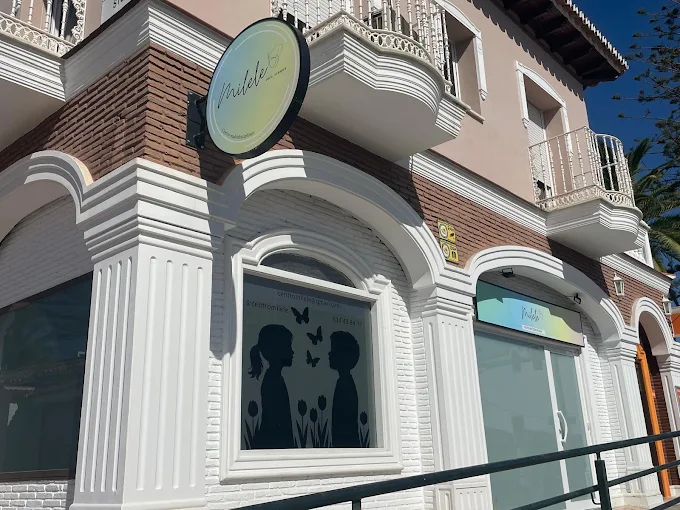
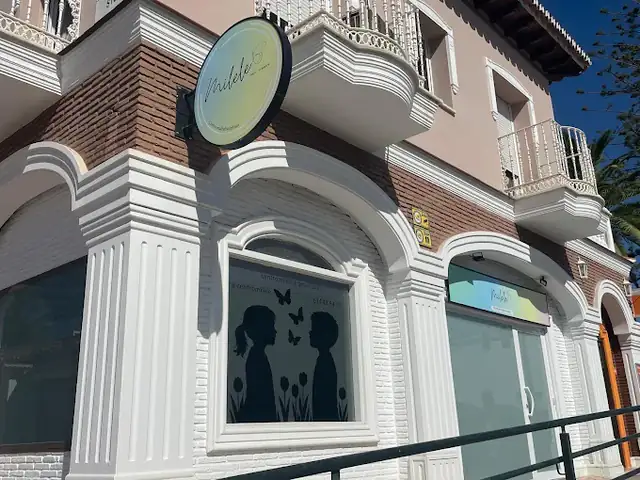
Contacto: foto frontal de la entrada en 'Dónde estamos' y fotos de la fachada más ligeras
Inicio mantiene la vista de la esquina y contacto usa la entrada, para que no se repita la misma imagen. Ambas fotos se reducen a 640 px (de 77 KB a 43 KB y 36 KB la nueva).

Claude-Session: https://claude.ai/code/session_01Agnb9mRaFgduk5VT2bRYbk

diff --git a/frontend/src/components/DondeEstamos.jsx b/frontend/src/components/DondeEstamos.jsx
@@ -1,6 +1,18 @@
 import { Navigation } from "lucide-react"
-import fachada from "../assets/images/fachada-milele.webp"
+import fachadaEsquina from "../assets/images/fachada-milele.webp"
+import fachadaFrontal from "../assets/images/fachada-frontal.webp"
 import instagramLogo from "../assets/images/instagram.webp"
+
+const PHOTOS = {
+  esquina: {
+    src: fachadaEsquina,
+    alt: "Fachada del centro Milele en Puerto de la Torre, Málaga",
+  },
+  frontal: {
+    src: fachadaFrontal,
+    alt: "Entrada del centro Milele con el escaparate de las siluetas de los niños, en Puerto de la Torre, Málaga",
+  },
+}
 
 const MAPS_PLACE = "https://www.google.com/maps/search/?api=1&query=Calle+Lope+de+Rueda+78a%2C+29190+M%C3%A1laga"
 const MAPS_ROUTE = "https://www.google.com/maps/dir/?api=1&destination=Calle+Lope+de+Rueda+78a%2C+29190+M%C3%A1laga"
@@ -11,9 +23,11 @@ const MAPS_ROUTE = "https://www.google.com/maps/dir/?api=1&destination=Calle+Lop
  *
  * variant "plain": sin caja, foto y datos en dos columnas (pie de la página de inicio).
  * variant "card": en una tarjeta, con la foto encima de los datos (página de contacto).
+ * photo: "esquina" (vista de la esquina, en inicio) o "frontal" (la entrada, en contacto).
  */
-export default function DondeEstamos({ variant = "plain", className = "" }) {
+export default function DondeEstamos({ variant = "plain", photo = "esquina", className = "" }) {
   const card = variant === "card"
+  const image = PHOTOS[photo]
   const Heading = card ? "h2" : "h3"
 
   return (
@@ -27,10 +41,10 @@ export default function DondeEstamos({ variant = "plain", className = "" }) {
       </Heading>
       <div className={`grid gap-6 ${card ? "" : "md:grid-cols-2"}`}>
         <img
-          src={fachada}
-          alt="Fachada del centro Milele en Puerto de la Torre, Málaga"
-          width="680"
-          height="510"
+          src={image.src}
+          alt={image.alt}
+          width="640"
+          height="480"
           loading="lazy"
           className="aspect-[4/3] w-full rounded-lg object-cover"
         />

diff --git a/frontend/src/pages/Contact.jsx b/frontend/src/pages/Contact.jsx
@@ -66,7 +66,7 @@ export default function Contact() {
         <div className="container mx-auto px-4">
           <div className="grid gap-12 lg:grid-cols-2">
             {/* Dónde estamos: dirección, horario, teléfono y correo en un único bloque */}
-            <DondeEstamos variant="card" className="order-2 lg:order-1" />
+            <DondeEstamos variant="card" photo="frontal" className="order-2 lg:order-1" />
 
             {/* Contact Form */}
             <div className="order-1 lg:order-2 bg-white p-8 rounded-2xl shadow-xl milele-shadow border border-milele-pink/10">
